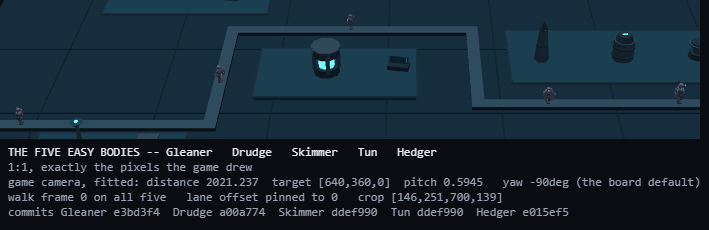
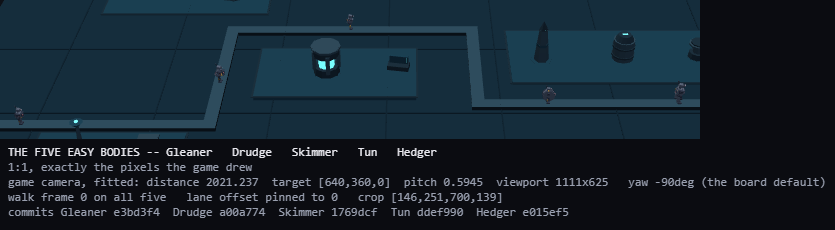
Re-shoot the Easy five against the narrowed Skimmer, and add broadside
The Skimmer at 1769dcf, everything re-taken from committed files rather than
reused. Gleaner vs Skimmer separation (changed px over mean own silhouette,
0 identical, ~2 no overlap):

                  before        after
  front        49 px / 0.50   64 px / 0.69
  three-quarter 53 px / 0.48  73 px / 0.70
  broadside      not shot     81 px / 0.81

against a board running 0.80-1.46. No longer an outlier, and it separates
BEST side-on, which is where the narrowing was aimed.

BROADSIDE IS NEW AND IT EARNED ITS COST. The separator is worth 10-12%
head-on and 35% side-on, so the two standard bearings measure it where it is
worth least. Adding yaw 0 also surfaced Gleaner vs Tun at 0.57 -- now the
worst pair on the board, on a model that scores 0.80-0.89 at the two usual
views and which nobody had questioned. The blind spot hid two problems.

Three fixes to the rig, each from something that went wrong:

  - camState() now emits the VIEWPORT beside the distance. fitBounds solves
    against the canvas aspect, so the fitted distance is a property of the
    window rather than the map: 2021.3631 at 1278x719 against 2021.2374 at
    1111x625, same board, same method (juno). Quoting the distance alone lets
    a disagreement between two rigs read as a finding when it is a window
    size.
  - The board shot is now SKIPPED PER YAW AND RECORDED rather than aborting
    the run. At broadside the Gleaner lands behind scenery at 85/119 px, and
[…]

diff --git a/visual-pass/probe/lineup-shoot.js b/visual-pass/probe/lineup-shoot.js
@@ -87,15 +87,27 @@ async function main() {
     out.glCanvas = setup.gl;
 
     var stamp = "commits " + prov.map(function (p) { return p.name + " " + p.commit; }).join("  ");
+    // THE VIEWPORT TRAVELS WITH THE DISTANCE. fitBounds solves against the
+    // canvas aspect, so the fitted distance is a property of the window, not
+    // the map -- juno reads 2021.3631 at 1278x719 where this rig reads
+    // 2021.2374 at 1111x625, same board, same method. A caption quoting the
+    // distance alone lets a future disagreement between two rigs read as a
+    // finding when it is a window size.
     var camLine = "game camera, fitted: distance " + out.camera.distance.toFixed(3) +
-      "  target [" + out.camera.target.join(",") + "]  pitch " + out.camera.pitch.toFixed(4);
+      "  target [" + out.camera.target.join(",") + "]  pitch " + out.camera.pitch.toFixed(4) +
+      "  viewport " + out.camera.viewport[0] + "x" + out.camera.viewport[1];
 
     // ---- TWO YAWS. The Drudge's separator is a profile change and the
     // Hedger's arm is a broken-symmetry read; a single head-on view would
     // understate both, and choosing the flattering one is not my call.
     var YAWS = [
       { tag: "front", yaw: -Math.PI / 2, label: "yaw -90deg (the board default)" },
-      { tag: "three-quarter", yaw: -Math.PI / 2 + 0.7, label: "yaw -50deg (three-quarter)" }
+      { tag: "three-quarter", yaw: -Math.PI / 2 + 0.7, label: "yaw -50deg (three-quarter)" },
+      // BROADSIDE. mira: the fore/aft narrowing pays 10-12% at the two
+      // bearings above and 35% here, and a body yaws with the path so it
+      // presents every bearing during a run. Shooting only the standard views
+      // measures the separator where it is worth least.
+      { tag: "broadside", yaw: 0, label: "yaw 0deg (broadside, +90 from front)" }
     ];
 
     // PLACE THEM ON THE ROAD, NOT ON A RULER.
@@ -141,7 +153,7 @@ async function main() {
     // These are both the separation baseline and the yardstick the lineup's
     // occlusion check is measured against, so they have to exist before any
     // group shot is trusted.
-    var soloPx = {};
+    var soloPx = {}, soloBox = {};
     for (var pi = 0; pi < YAWS.length; pi++) {
       await S.evaluate("TDProbe.cam({yaw:" + YAWS[pi].yaw + "})");
       soloPx[YAWS[pi].tag] = {};
@@ -154,13 +166,17 @@ async function main() {
       await S.evaluate("enemies.length = 0");
       await S.evaluate("TDProbe.warm(2)");
       await S.evaluate("TDProbe.cap('p_" + YAWS[pi].tag + "_empty')");
+      soloBox[YAWS[pi].tag] = {};
       for (var bi1 = 0; bi1 < BODIES.length; bi1++) {
-        soloPx[YAWS[pi].tag][BODIES[bi1].typeId] = JSON.parse(await S.evaluate(
+        var sd = JSON.parse(await S.evaluate(
           "JSON.stringify(TDProbe.diff('p_" + YAWS[pi].tag + "_" + BODIES[bi1].typeId +
-          "','p_" + YAWS[pi].tag + "_empty',0))")).changed;
+          "','p_" + YAWS[pi].tag + "_empty',0))"));
+        soloPx[YAWS[pi].tag][BODIES[bi1].typeId] = sd.changed;
+        soloBox[YAWS[pi].tag][BODIES[bi1].typeId] = sd.bboxGL;
       }
     }
     out.measurements.soloSilhouettePx = soloPx;
+    out.measurements.soloBboxGL = soloBox;
 
     for (var yi = 0; yi < YAWS.length; yi++) {
       var Y = YAWS[yi];
@@ -187,10 +203,19 @@ async function main() {
       });
       out.measurements[Y.tag].allBodiesClear = hidden.length === 0;
       if (hidden.length) {
-        throw new Error("occluded in lineup at yaw " + Y.tag + ": " +
-          hidden.map(function (b) {
-            return b.typeId + " " + b.changed + "/" + b.soloPx + " px";
-          }).join(", ") + " -- refusing to publish a picture that hides a body");
+        // SKIP THE BOARD SHOT AT THIS YAW, DO NOT ABORT THE RUN.
+        //
+        // The board shot is context; the STRIP and the separation table are
+        // built from solo captures at one fixed clear spot and do not depend on
+        // this layout at all. Aborting would have cost the broadside separation
+        // numbers -- the whole reason for this pass -- because a decorative
+        // image could not be laid out. Record which yaw could not be laid out
+        // and why, so the missing picture is a stated fact rather than a gap.
+        out.measurements[Y.tag].boardShotSkipped = hidden.map(function (b) {
+          return b.typeId + " " + b.changed + "/" + b.soloPx + " px (" +
+            b.visibleFraction + " of clear)";
+        });
+        continue;
       }
       // Same frame index and same yaw across all five, asserted not assumed.
       var walks = line.map(function (l) { return l.walk; });

diff --git a/visual-pass/probe/page-probe-shoot.js b/visual-pass/probe/page-probe-shoot.js
@@ -198,7 +198,20 @@
     var capH = lines.length ? lines.length * lineH + pad * 2 : 0;
 
     var out = document.createElement("canvas");
-    out.width = keys.length * (tw * k) + (keys.length + 1) * g0;
+    // SAME CAPTION-CLIPPING FIX AS pngFrom, and it was missing here. At 4x the
+    // strip is narrower than its own provenance line, so the yaw label and the
+    // commit hashes were cut off mid-string -- the exact information the
+    // caption exists to carry. Fixing it in one place and not the other is how
+    // a repaired defect comes back on the path nobody re-checked.
+    var meas2 = document.createElement("canvas").getContext("2d");
+    meas2.font = "12px Consolas, monospace";
+    var textW2 = 0;
+    for (var mj = 0; mj < lines.length; mj++) {
+      var w2 = meas2.measureText(lines[mj]).width;
+      if (w2 > textW2) textW2 = w2;
+    }
+    out.width = Math.max(keys.length * (tw * k) + (keys.length + 1) * g0,
+                         Math.ceil(textW2) + pad * 2);
     out.height = th * k + labH + capH + g0 * 2;
     var g = out.getContext("2d");
     g.fillStyle = "#0b0c11";

diff --git a/visual-pass/probe/page-probe.js b/visual-pass/probe/page-probe.js
@@ -157,10 +157,18 @@
                            pitch: 0.5944591432292686, yaw: -1.5707963267948966 });
     },
 
+    // THE FITTED DISTANCE IS A PROPERTY OF THE VIEWPORT, NOT OF THE MAP.
+    // fitBounds solves against the canvas aspect, so two rigs at different
+    // window sizes fit different distances on the same board -- juno measures
+    // 2021.3631 at 1278x719 where this rig measures 2021.2374 at 1111x625.
+    // Both are correct and neither is quotable without its viewport, or a
+    // future disagreement between two rigs reads as a finding when it is a
+    // window size. So the canvas travels with the camera, always.
     camState: function () {
       var c = World3D.camera();
+      var g = glCanvas();
       return { target: c.target.slice(), distance: c.distance,
-               pitch: c.pitch, yaw: c.yaw };
+               pitch: c.pitch, yaw: c.yaw, viewport: [g.width, g.height] };
     },
 
     // Discard N rendered frames. THE FIRST RENDER AFTER ANY SCENE CHANGE
